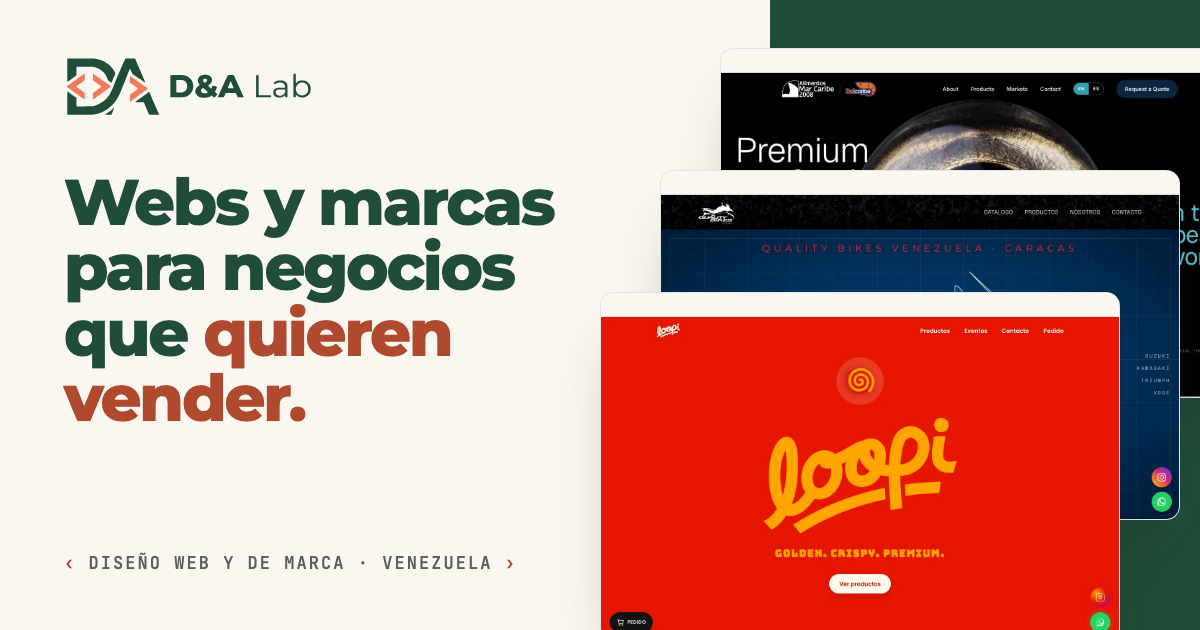
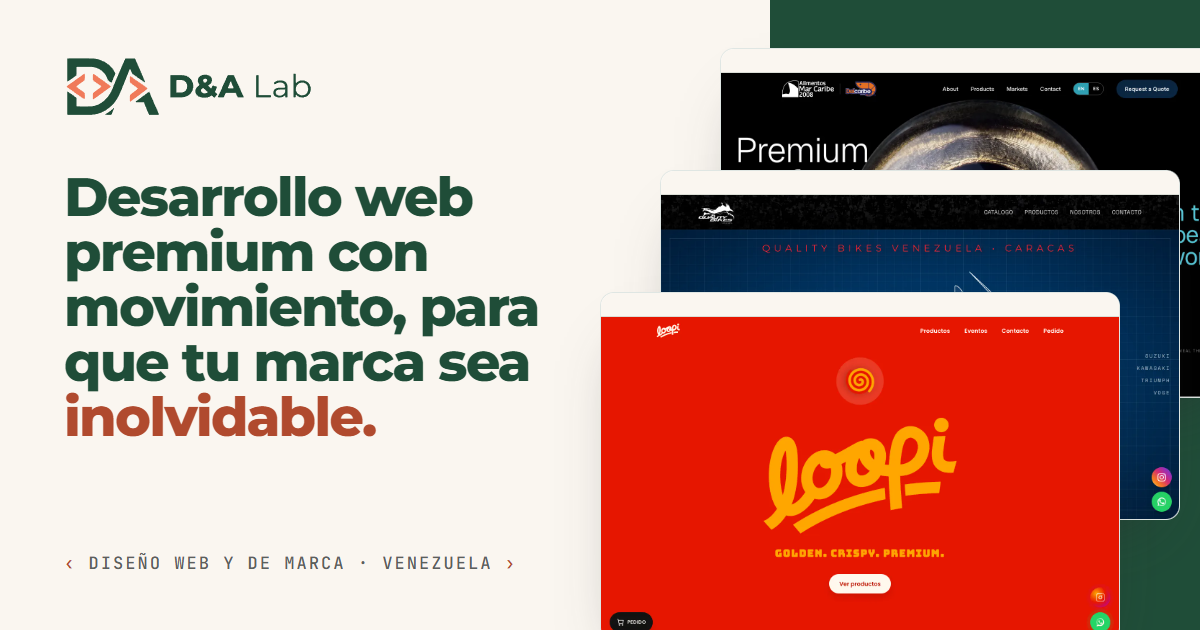
Lema nuevo en footer e imagen para redes
"Desarrollo web premium con movimiento, para que tu marca sea inolvidable."
reemplaza "Webs y marcas para negocios que quieren vender." en el lema del
footer, el alt de OG/Twitter y la imagen para compartir (regenerada con
scripts/og.mjs, que ahora cae al Edge del sistema si falta el Chromium de
Playwright).

Changed region(s): [[0.0308, 0.2714, 0.4625, 0.6937], [0.0617, 0.8746, 0.2775, 0.9048], [0.3083, 0.8746, 0.4317, 0.9048]]

diff --git a/src/content/es.ts b/src/content/es.ts
@@ -13,7 +13,7 @@ export const es = {
     title: "D&A Lab — Diseño web y de marca para negocios que venden",
     description:
       "Estudio de diseño web y de identidad visual en Venezuela. Sitios a medida y logos para negocios que venden por catálogo, por WhatsApp o por cotización.",
-    ogAlt: "D&A Lab — Webs y marcas para negocios que quieren vender",
+    ogAlt: "D&A Lab — Desarrollo web premium con movimiento, para que tu marca sea inolvidable",
   },
 
   nav: [
@@ -352,7 +352,7 @@ export const es = {
     colNav: "Navegación",
     available: "Disponibles para nuevos proyectos",
     backToTop: "Volver arriba",
-    tagline: "Webs y marcas para negocios que quieren vender.",
+    tagline: "Desarrollo web premium con movimiento, para que tu marca sea inolvidable.",
     rights: "Todos los derechos reservados.",
   },
 };
